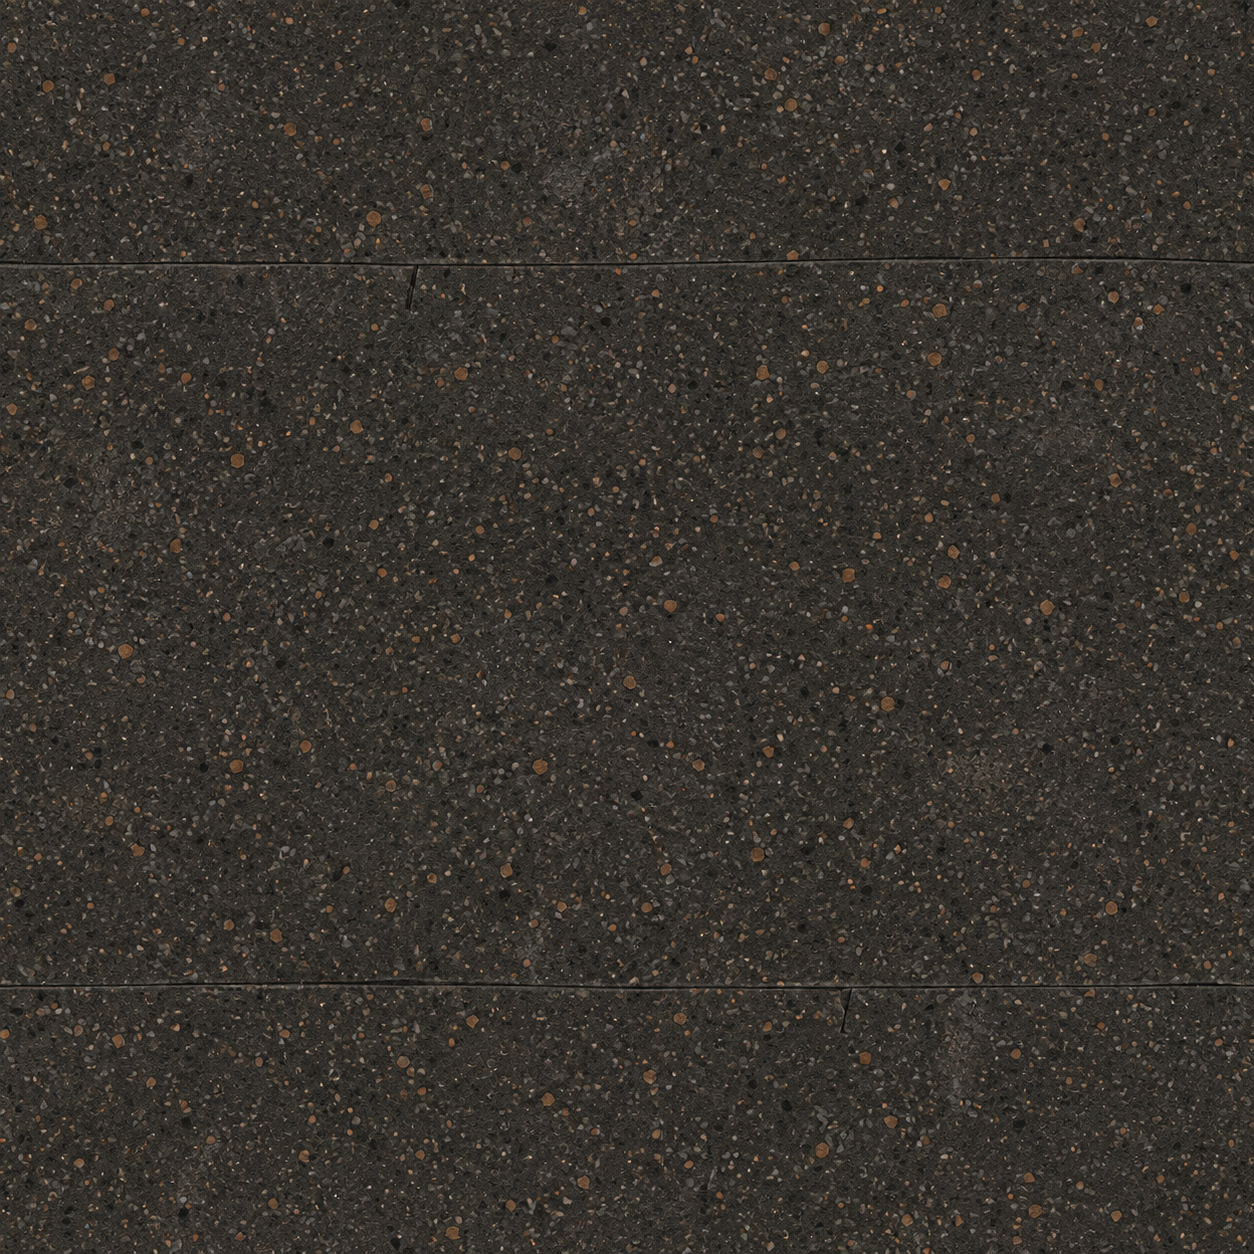
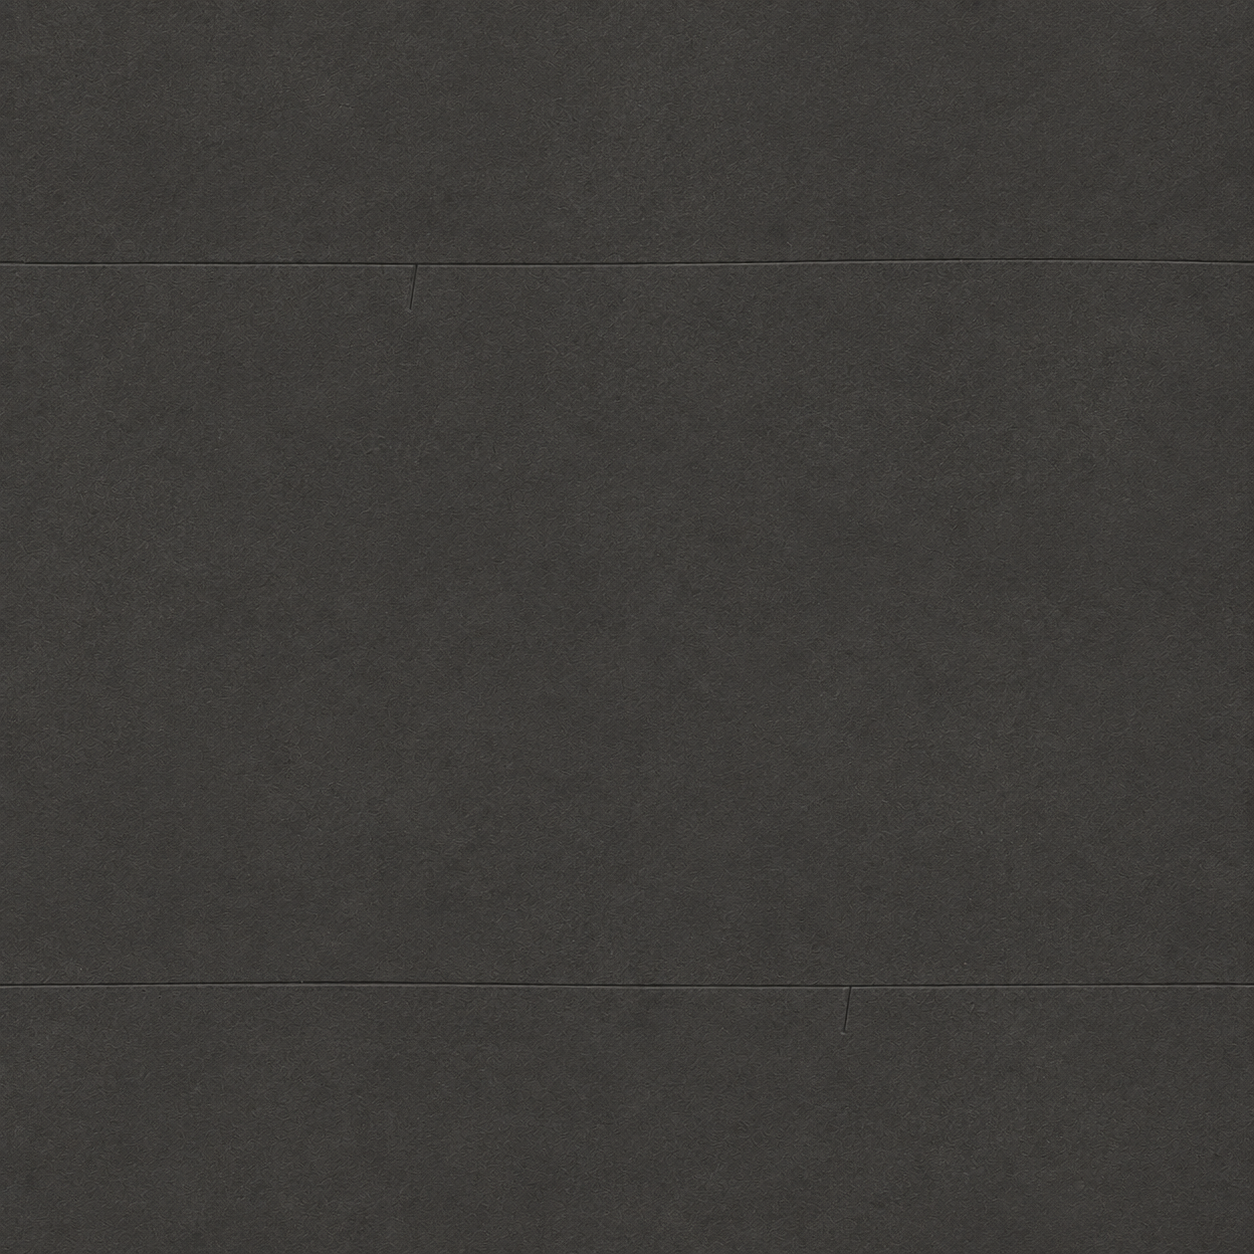
art: soften habitat rubber after live station review

Changed region(s): [[0.0, 0.0, 1.0, 1.0]]

diff --git a/frontend/assets/industrial/MATERIAL-REVISIONS.md b/frontend/assets/industrial/MATERIAL-REVISIONS.md
@@ -58,3 +58,10 @@ Exact prompt:
 
 > Create one production-quality StarNet game material texture, square 1024x1024. A single orthographic flat surface filling every pixel. Precisely tileable seamless left/right and top/bottom. Equal diffuse illumination throughout, NO baked directional lighting, vignette or cast shadows. Every pixel fully opaque. Rich believable surface material with controlled low contrast, clean structure but naturally tactile surfaces. Strong material identity survives reduction to small game scale. No scene, perspective, room, props, border, caption, text, insignia, symbols or emissive lights. Exterior spacecraft carbon-carbon thermal shielding. Broad interlocking dark graphite asymmetric flat armor panels with shallow angular cut corners, narrow black expansion gaps, subtly varied charcoal faces, fine satin carbon-ceramic material texture. Three wide panel bays with offset transverse joins. Sparse tiny recessed attachment points. Almost flat, heavily restrained engineering. No rectangular brick courses, no offwhite or white tiles, no bathroom or subway tiles, no quilted padding, no repeated chunky bolts, no luminous edges, no deep greebles. Architectural ship cladding with mature quiet industrial realism.
 
+
+## Habitat smoothing after live review
+
+The first habitat replacement was too speckled in the live REFIT view. Final floor-habitat.png is a built-in ImageGen edit of that first replacement (source retained in commit 80a1f8e38), using this exact prompt:
+
+> Edit this StarNet habitat floor texture. Keep the broad flush sheet construction and top-down orthographic seamless layout, but completely replace the coarse speckled aggregate with smooth charcoal rubber. Remove EVERY bright fleck, orange dot, gravel fragment and stony mottling. The result should be an almost uniform dark neutral warm gray rubber sheet, fine nearly invisible low-contrast microporous grain. Only extremely subtle wide compressed wear sheen, never shiny, and faint hairline seams. About 90 percent visual calm plain surface. Color variation no more than about 5 percent between nearby pixels, no high-frequency black-white noise. No bevels, borders, grilles, bolts, ornaments or tile grid. Square edge-to-edge opaque game texture, uniform diffuse lighting, matching opposite edges. Restrained attractive functional spacecraft habitat flooring.
+

diff --git a/website/app/assets/industrial/MATERIAL-REVISIONS.md b/website/app/assets/industrial/MATERIAL-REVISIONS.md
@@ -58,3 +58,10 @@ Exact prompt:
 
 > Create one production-quality StarNet game material texture, square 1024x1024. A single orthographic flat surface filling every pixel. Precisely tileable seamless left/right and top/bottom. Equal diffuse illumination throughout, NO baked directional lighting, vignette or cast shadows. Every pixel fully opaque. Rich believable surface material with controlled low contrast, clean structure but naturally tactile surfaces. Strong material identity survives reduction to small game scale. No scene, perspective, room, props, border, caption, text, insignia, symbols or emissive lights. Exterior spacecraft carbon-carbon thermal shielding. Broad interlocking dark graphite asymmetric flat armor panels with shallow angular cut corners, narrow black expansion gaps, subtly varied charcoal faces, fine satin carbon-ceramic material texture. Three wide panel bays with offset transverse joins. Sparse tiny recessed attachment points. Almost flat, heavily restrained engineering. No rectangular brick courses, no offwhite or white tiles, no bathroom or subway tiles, no quilted padding, no repeated chunky bolts, no luminous edges, no deep greebles. Architectural ship cladding with mature quiet industrial realism.
 
+
+## Habitat smoothing after live review
+
+The first habitat replacement was too speckled in the live REFIT view. Final floor-habitat.png is a built-in ImageGen edit of that first replacement (source retained in commit 80a1f8e38), using this exact prompt:
+
+> Edit this StarNet habitat floor texture. Keep the broad flush sheet construction and top-down orthographic seamless layout, but completely replace the coarse speckled aggregate with smooth charcoal rubber. Remove EVERY bright fleck, orange dot, gravel fragment and stony mottling. The result should be an almost uniform dark neutral warm gray rubber sheet, fine nearly invisible low-contrast microporous grain. Only extremely subtle wide compressed wear sheen, never shiny, and faint hairline seams. About 90 percent visual calm plain surface. Color variation no more than about 5 percent between nearby pixels, no high-frequency black-white noise. No bevels, borders, grilles, bolts, ornaments or tile grid. Square edge-to-edge opaque game texture, uniform diffuse lighting, matching opposite edges. Restrained attractive functional spacecraft habitat flooring.
+
